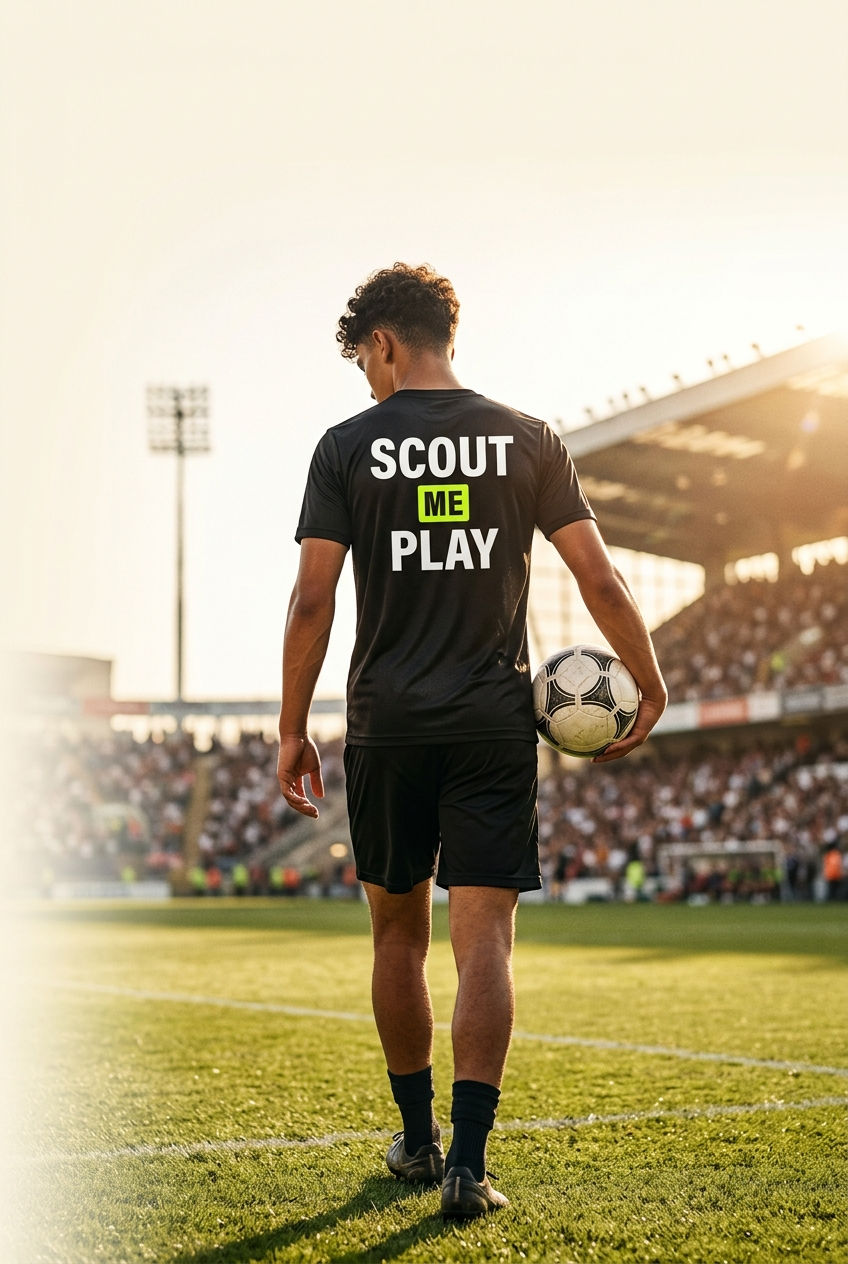
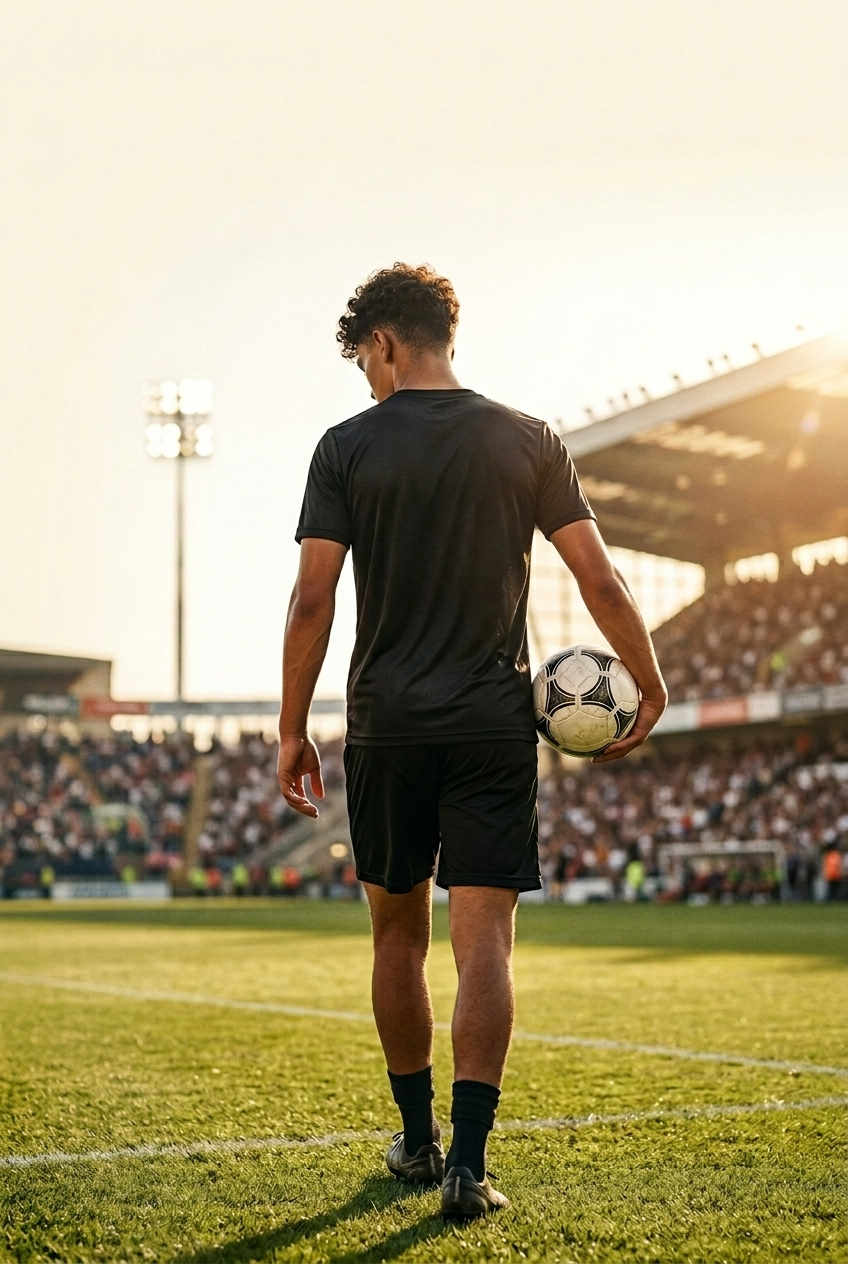
## Hero finpudset ✅ - **Trøjetekst fjernet**: Spillerens trøje er nu helt sort — teksten er slettet fra billedet. - **Mere cinematisk**: Ny film-agtig farvegradering med gyldent modlys på skuldrene, dis og blødt stadionlys. - **Perfekt justering**: Overskriften og billedet starter nu på præcis samme
- Next Action Items:
  - **Populære Artikler**: Vis de mest læste blogartikler baseret på rigtige visningstal
  - **Færdig-Notifikation**: Send en mail når en rapport er klar, så ingen sidder og venter
  - **Kategori-Deling**: Lad spillere dele ét snapshot-kort med billede og score direkte til Instagram
  - **Dansk Oversættelse**: Gør forsiden og rapporter tilgængelige på dansk

diff --git a/frontend/src/pages/LandingMinimal.jsx b/frontend/src/pages/LandingMinimal.jsx
@@ -171,14 +171,19 @@ function HeroSection({ onPrimaryCta, isLoggedIn }) {
             animate={{ opacity: 1 }}
             transition={{ duration: 0.9 }}
             aria-hidden
-            className="absolute inset-y-0 -right-5 md:right-0 w-[60%] sm:w-[52%] lg:w-[46%] pointer-events-none select-none"
+            className="absolute inset-y-0 -right-5 md:right-0 w-[60%] sm:w-[52%] lg:w-[46%] pointer-events-none select-none overflow-hidden"
             data-testid="hero-player-photo"
           >
+            <style>{`
+              @keyframes smp-hero-drift { from { transform: scale(1.04) translate(0px, 0px); } to { transform: scale(1.12) translate(-12px, -8px); } }
+              @media (prefers-reduced-motion: reduce) { .smp-hero-img { animation: none !important; } }
+            `}</style>
             <img
               src={heroPlayer}
               alt=""
               onError={(e) => { e.currentTarget.style.display = "none"; }}
-              className="w-full h-full object-cover object-top"
+              className="smp-hero-img w-full h-full object-cover object-top"
+              style={{ animation: "smp-hero-drift 18s ease-in-out infinite alternate" }}
             />
             <div
               className="absolute inset-0"
@@ -188,8 +193,8 @@ function HeroSection({ onPrimaryCta, isLoggedIn }) {
             />
           </motion.div>
 
-          {/* Copy column */}
-          <div className="relative z-10 pt-4 md:pt-6">
+          {/* Copy column — top-aligned with the player photo */}
+          <div className="relative z-10">
             <motion.h1
               initial={{ opacity: 0, y: 12 }}
               animate={{ opacity: 1, y: 0 }}

diff --git a/memory/PRD.md b/memory/PRD.md
@@ -3483,3 +3483,8 @@ Verified via screenshots (mobile 390px): filter shows cards, banners render on i
 - Generated hero image (Gemini image): teenage player from behind in black SCOUT ME PLAY shirt (ME in lime box) holding ball in hazy stadium → `/app/backend/static/landing/hero-player.jpg` (served /api/static/landing/hero-player.jpg). Image bleeds right with 4-side cream (#F4EFE6) gradient blend; text max-widths keep copy clear of the player on all breakpoints.
 - Old right-side composition (hero-action image, floating report card, stats chip) removed from hero only. data-testids preserved: hero-headline, hero-upload-cta, hero-secondary-cta, hero-sample-report-cta, hero-signin-link; new hero-player-photo, hero-feature-row.
 - Verified: mobile 390px (no horizontal overflow, layout matches reference) + desktop 1440px screenshots. File spliced via python (function lines 145-437), COMPILE_OK. USER MUST DEPLOY.
+
+## 2026-08-12 (4) — Hero polish (verified in Preview)
+- Hero image re-edited (Gemini image edit): SCOUT ME PLAY print ERASED from shirt (plain black), more cinematic grade (golden-hour rim light, film contrast, haze). Same file path /api/static/landing/hero-player.jpg.
+- Alignment: removed pt-4/pt-6 on the copy column so headline top == image top on all breakpoints.
+- Motion: slow cinematic drift on the image (smp-hero-drift 18s alternate, scale 1.04→1.12 + translate), container overflow-hidden so fades stay intact, prefers-reduced-motion disables it. Verified animationName applied + mobile no overflow.
